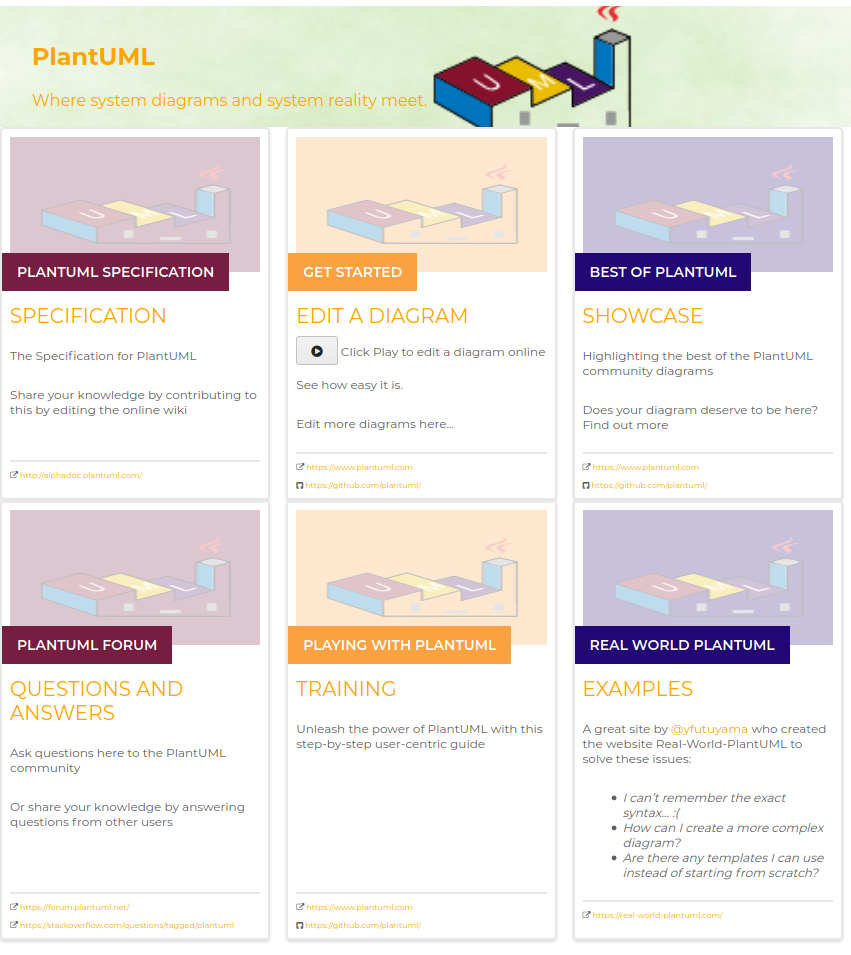
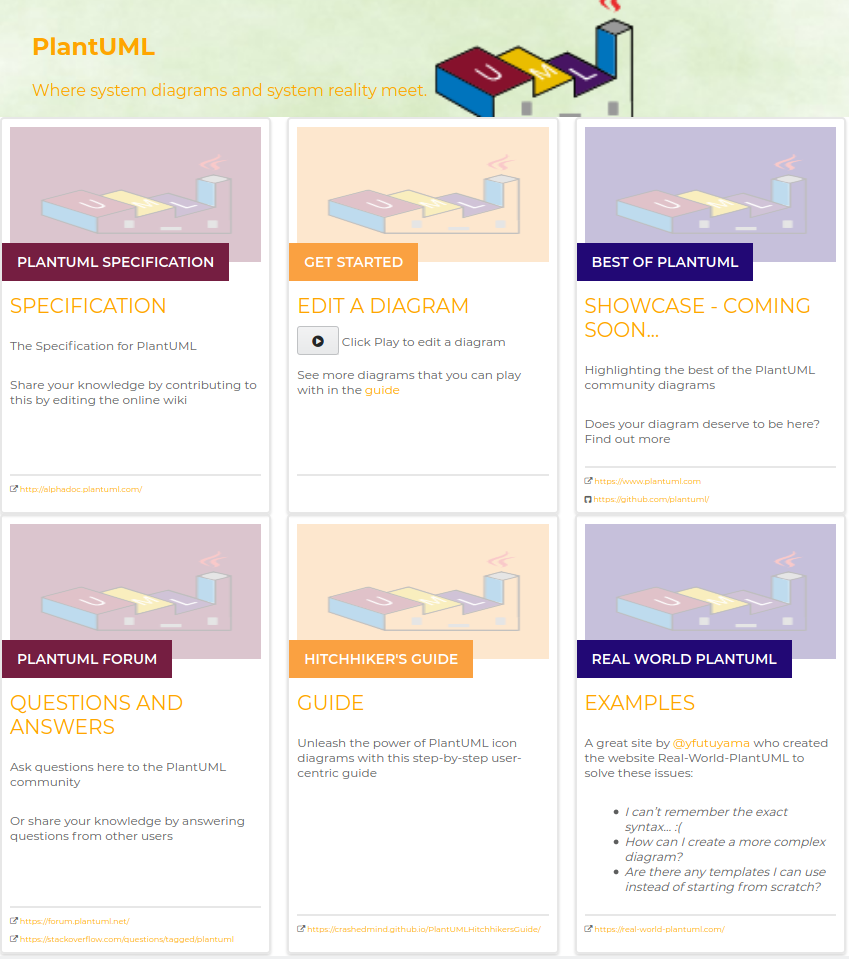
added github.io landing

diff --git a/docs/NetworkUsersMachines/NetworkUsersMachines.rst b/docs/NetworkUsersMachines/NetworkUsersMachines.rst
@@ -70,7 +70,7 @@ Source
 ^^^^^^^^^^^^^^^^^^^^^^^^^^^^^^^^^^^^^^^^^^^^^^^^^^^^^^^^^^^^^^^^^^^^^^^^^^^^^^^
 
 .. literalinclude:: ./NetworkUsersMachines1.puml
-    :emphasize-lines: 10
+    :emphasize-lines: 11
     :linenos: 
 
 Play
@@ -186,7 +186,7 @@ Source
 
 .. literalinclude:: ./NetworkUsersMachines4.puml
     :linenos: 
-    :emphasize-lines: 34-52
+    :emphasize-lines: 35-53
 
 Play
 ^^^^^^^^^^^^^^^^^^^^^^^^^^^^^^^^^^^^^^^^^^^^^^^^^^^^^^^^^^^^^^^^^^^^^^^^^^^^^^^
@@ -237,7 +237,7 @@ Source
 
 .. literalinclude:: ./NetworkUsersMachines5.puml
     :linenos: 
-    :emphasize-lines: 36-56
+    :emphasize-lines: 37-57
 
 Play
 ^^^^^^^^^^^^^^^^^^^^^^^^^^^^^^^^^^^^^^^^^^^^^^^^^^^^^^^^^^^^^^^^^^^^^^^^^^^^^^^
@@ -276,7 +276,7 @@ Source
 
 .. literalinclude:: ./NetworkUsersMachines6.puml
     :linenos: 
-    :emphasize-lines: 17, 24, 33
+    :emphasize-lines: 18, 24, 34
 
 Play
 ^^^^^^^^^^^^^^^^^^^^^^^^^^^^^^^^^^^^^^^^^^^^^^^^^^^^^^^^^^^^^^^^^^^^^^^^^^^^^^^

diff --git a/docs/about/AboutThisGuide.rst b/docs/about/AboutThisGuide.rst
@@ -18,6 +18,8 @@ The scope of the guide is the PlantUML Standard Library; the Library
 that allows creation of icon diagrams like those shown in :ref:`PlantUML Diagram Examples` .
 
 The scope is NOT the various UML type diagrams that PlantUML is better known for.
+https://real-world-plantuml.com/ is a good resource to learn these by example.
+
 
 
 Goals

diff --git a/docs/about/AboutPlantUML.rst b/docs/about/AboutPlantUML.rst
@@ -19,3 +19,13 @@ About PlantUML
      
 
 
+.. tip ::
+    See https://crashedmind.github.io/plantuml.github.io/ for some useful PlantUML links. 
+
+
+.. figure :: plantuml.github.io.png
+    :target: https://crashedmind.github.io/plantuml.github.io/
+
+
+
+
